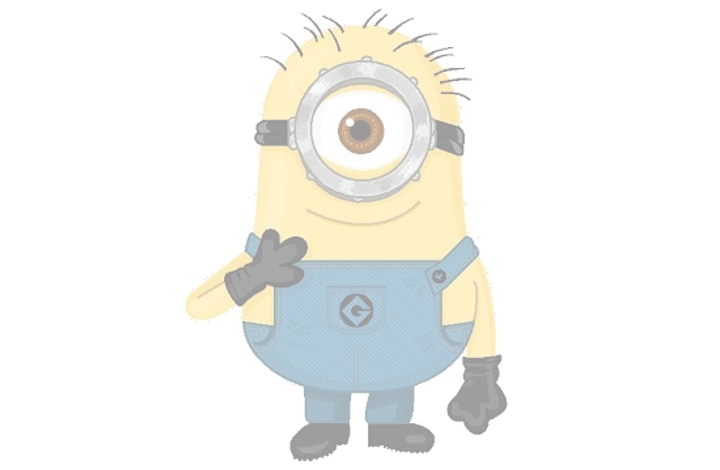
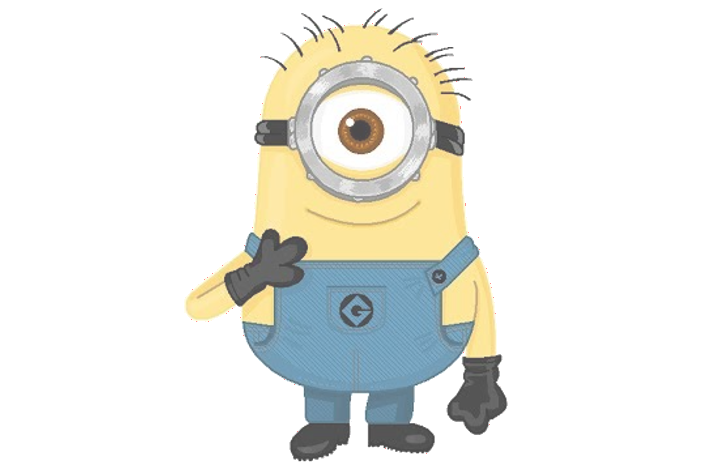
Estimate basic rotations from the quadrilateral corners.

Changed region(s): [[0.2444, 0.0298, 0.7028, 0.983]]

diff --git a/js/main.js b/js/main.js
@@ -224,27 +224,47 @@ class BobRossAr {
 
     // render the sketch
     if (this.markers.length > 0) {
-      // compute the offsets
+      // compute the rotation
       const pose = this.posit.pose(this.markers[0].corners.map(c => {
         const cornerCopy = JSON.parse(JSON.stringify(c));
         cornerCopy.x = cornerCopy.x - (self.width / 2);
         cornerCopy.y = cornerCopy.y - (self.height / 2);
         return cornerCopy;
       }));
-      const xOff = this.markers[0].corners[3].x;
-      const yOff = this.markers[0].corners[3].y;
-      const paperW = 400;
-      const paperH = 300;
+      const corners = this.markers[0].corners;
+      const theta = Math.atan(
+        (corners[0].x - corners[1].x) / (corners[0].y - corners[1].y)
+      );
+      const negativePhi = BobRossAr.getDist(corners[0], corners[3]) >
+        BobRossAr.getDist(corners[1], corners[2]);
+      const phi = (negativePhi ? -0.25 : 0.25) * Math.acos(
+        BobRossAr.getDist(
+          corners[2], corners[3]
+        ) / (BobRossAr.getDist(
+          corners[0], corners[3]
+        ) + 0.00001)
+      ) || 0;
 
       // render the rotated artwork onto the projector's canvas
-      this.projector.render();
+      this.projector.render(theta, -phi);
 
       // draw the projected image on the canvas
+      const xOff = corners[1].x;
+      const yOff = corners[1].y;
+      const paperW = 400;
+      const paperH = 300;
       this.renderCtx.drawImage(
         this.projectedCanvas, xOff, yOff,
         paperW, paperH
       );
     }
+  }
+
+  static getDist(a, b) {
+    return Math.sqrt(
+      Math.pow(a.x - b.x, 2) +
+      Math.pow(a.y - b.y, 2)
+    );
   }
 
   getClosestExistingMarker(marker) {

diff --git a/js/test_projection.js b/js/test_projection.js
@@ -1,9 +1,12 @@
 class BobRossArProjection {
   constructor() {
     this.scene = new THREE.Scene();
-    const light = new THREE.DirectionalLight( 0xffffff );
-    light.position.set( 0, 1, 1 ).normalize();
-    this.scene.add(light);
+    const light1 = new THREE.DirectionalLight( 0xdddddd );
+    light1.position.set( 0, 1, 1 ).normalize();
+    this.scene.add(light1);
+    const light2 = new THREE.DirectionalLight( 0xdddddd );
+    light2.position.set( 0, -1, 1 ).normalize();
+    this.scene.add(light2);
 
     this.camera = new THREE.PerspectiveCamera(
       70, window.innerWidth / window.innerHeight, 1, 1000
@@ -16,7 +19,7 @@ class BobRossArProjection {
     material.transparent = true;
     this.mesh = new THREE.Mesh(geometry, material);
     this.mesh.position.z = -5;
-    this.mesh.rotation.x = (Math.PI / 180) * -20.0 * 0;
+    this.mesh.rotation.x = (Math.PI / 180) * 0.0;
     this.mesh.rotation.y = (Math.PI / 180) * 0.0;
     this.mesh.rotation.z = (Math.PI / 180) * 0.0;
     this.scene.add(this.mesh);
@@ -28,7 +31,9 @@ class BobRossArProjection {
     document.body.appendChild(this.renderer.domElement);
   }
 
-  render() {
+  render(theta, phi) {
+    this.mesh.rotation.z = theta;
+    this.mesh.rotation.x = phi;
     this.renderer.render(this.scene, this.camera);
   }
 }
